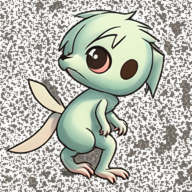
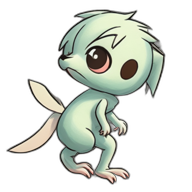
feat(blocklings): in-game vendors (crypto->treasury, 90% backs BLOCK) + clean sprite mattes
- Vendors: market-stall NPCs, one per nearby zone (deterministic stock of 8
  non-NFT items priced in BLOCK/ETH/SOL). Walk up -> SHOP button -> buy with
  crypto. EconomyService.buyFromVendor debits balance, adds the (unminted) item,
  routes the sale to the treasury wallet and books 90% to back BLOCK via the
  Blockle Liquidity pool (vendorBackingPct). Real on-chain settlement deep-links
  to the wallet (vendorPayUrl); non-custodial.
- Art: rembg (U2Net) clean mattes replace the flood-fill halo on all 28
  character sprites — crisp transparent edges (tools/rembg_chars.py).

Claude-Session: https://claude.ai/code/session_01Hi9Fj21YnCdsu73fPDkw6o

diff --git a/blockle-quest/lib/ui/panels.dart b/blockle-quest/lib/ui/panels.dart
@@ -4,6 +4,7 @@ import 'package:url_launcher/url_launcher.dart';
 import '../account/account_service.dart';
 import '../economy/economy.dart';
 import '../game/blocklings_game.dart';
+import '../game/entities/vendor.dart';
 import '../models/blockling.dart';
 import '../models/item.dart';
 import '../quests/quests.dart';
@@ -56,7 +57,7 @@ class _Panel extends StatelessWidget {
     void close() {
       final g = game;
       if (g != null) {
-        for (final name in const ['inventory', 'wallet', 'market', 'skills', 'quests']) {
+        for (final name in const ['inventory', 'wallet', 'market', 'skills', 'quests', 'shop']) {
           g.overlays.remove(name);
         }
         g.resumeEngine();
@@ -542,6 +543,83 @@ Future<void> _signInDialog(BuildContext context) async {
       },
     ),
   );
+}
+
+// ---- Vendor shop ----------------------------------------------------------
+class ShopPanel extends StatefulWidget {
+  final BlocklingsGame game;
+  const ShopPanel({super.key, required this.game});
+  @override
+  State<ShopPanel> createState() => _ShopPanelState();
+}
+
+class _ShopPanelState extends State<ShopPanel> {
+  @override
+  Widget build(BuildContext context) {
+    final v = widget.game.nearbyVendor;
+    return _Panel(
+      title: v?.name ?? 'Vendor',
+      game: widget.game,
+      child: v == null
+          ? const Center(child: Text('No vendor nearby.', style: TextStyle(color: Bq.dim)))
+          : AnimatedBuilder(
+              animation: _econ,
+              builder: (_, __) => ListView(
+                padding: const EdgeInsets.all(12),
+                children: [
+                  const Text('Buy with crypto. Items aren’t NFTs — mint them later if you like.',
+                      style: TextStyle(color: Bq.dim, fontSize: 11)),
+                  const SizedBox(height: 8),
+                  for (final e in v.stock) _row(e),
+                  const SizedBox(height: 10),
+                  Container(
+                    padding: const EdgeInsets.all(10),
+                    decoration: BoxDecoration(color: Bq.panel2, borderRadius: BorderRadius.circular(10)),
+                    child: const Text('90% of every vendor sale backs BLOCK through the Blockle Liquidity pool.',
+                        style: TextStyle(color: Bq.accent2, fontSize: 11, fontWeight: FontWeight.w600)),
+                  ),
+                ],
+              ),
+            ),
+    );
+  }
+
+  Widget _row(ShopEntry e) => Container(
+        margin: const EdgeInsets.only(bottom: 8),
+        padding: const EdgeInsets.all(8),
+        decoration: BoxDecoration(color: Bq.panel2, borderRadius: BorderRadius.circular(10)),
+        child: Row(children: [
+          ItemSprite(e.item, size: 44),
+          const SizedBox(width: 10),
+          Expanded(
+            child: Column(crossAxisAlignment: CrossAxisAlignment.start, children: [
+              Text(e.item.name, overflow: TextOverflow.ellipsis, style: const TextStyle(color: Bq.text, fontWeight: FontWeight.w700)),
+              Text('${e.item.rarityName} · ATK ${e.item.atk} DEF ${e.item.def} HP ${e.item.hp}',
+                  style: TextStyle(color: e.item.rarityColor, fontSize: 11)),
+            ]),
+          ),
+          Column(crossAxisAlignment: CrossAxisAlignment.end, children: [
+            Row(mainAxisSize: MainAxisSize.min, children: [
+              Container(width: 8, height: 8, decoration: BoxDecoration(color: e.chain.color, shape: BoxShape.circle)),
+              const SizedBox(width: 4),
+              Text('${e.price} ${e.chain.symbol}', style: const TextStyle(color: Bq.text, fontSize: 12, fontWeight: FontWeight.w700)),
+            ]),
+            const SizedBox(height: 4),
+            SizedBox(
+              height: 28,
+              child: FilledButton(
+                style: FilledButton.styleFrom(backgroundColor: Bq.accent, padding: const EdgeInsets.symmetric(horizontal: 14), minimumSize: const Size(0, 28)),
+                onPressed: () {
+                  final err = _econ.buyFromVendor(e.item, e.chain, e.price);
+                  ScaffoldMessenger.of(context).showSnackBar(SnackBar(content: Text(err ?? 'Bought ${e.item.name}')));
+                  setState(() {});
+                },
+                child: const Text('Buy', style: TextStyle(fontSize: 11)),
+              ),
+            ),
+          ]),
+        ]),
+      );
 }
 
 // ---- Skills (RuneScape-style) ---------------------------------------------

diff --git a/blockle-quest/lib/game/entities/vendor.dart b/blockle-quest/lib/game/entities/vendor.dart
@@ -1,0 +1,72 @@
+import 'dart:ui';
+
+import 'package:flame/components.dart';
+import 'package:flutter/painting.dart';
+
+import '../../economy/economy.dart';
+import '../../models/item.dart';
+import '../../theme.dart';
+
+/// A single item for sale at a vendor, priced in crypto.
+class ShopEntry {
+  final Item item;
+  final Chain chain;
+  final double price;
+  const ShopEntry(this.item, this.chain, this.price);
+}
+
+/// A merchant NPC (market stall). Sells normal (non-NFT) items for crypto;
+/// purchases route to the treasury and 90% backs BLOCK via Liquidity (see
+/// EconomyService.buyFromVendor). Stock is generated deterministically from the
+/// vendor seed, so every vendor is distinct and stable.
+class Vendor extends PositionComponent {
+  final String name;
+  final int seed;
+  late final List<ShopEntry> stock;
+
+  Vendor({required this.name, required this.seed, required Vector2 position}) {
+    this.position = position;
+    size = Vector2.all(30);
+    anchor = Anchor.center;
+    priority = 4;
+    const chains = [Chain.blockle, Chain.blockle, Chain.blockle, Chain.ethereum, Chain.solana];
+    stock = List.generate(8, (i) {
+      final item = Item.at(seed * 131 + i * 17 + 3);
+      final chain = chains[(seed + i) % chains.length];
+      final double price = chain == Chain.blockle
+          ? double.parse((item.valueBlock * 2 + 1).toStringAsFixed(1))
+          : double.parse((item.valueBlock / 600 + 0.001).toStringAsFixed(4));
+      return ShopEntry(item, chain, price);
+    });
+  }
+
+  final Paint _p = Paint();
+
+  @override
+  void render(Canvas canvas) {
+    final w = size.x;
+    // Counter.
+    _p.color = const Color(0xFF6B4A2F);
+    canvas.drawRRect(RRect.fromRectAndRadius(Rect.fromLTWH(0, w * 0.5, w, w * 0.5), const Radius.circular(3)), _p);
+    // Striped awning.
+    for (var i = 0; i < 4; i++) {
+      _p.color = i.isEven ? Bq.accent : const Color(0xFFEDEDF4);
+      canvas.drawRect(Rect.fromLTWH(i * w / 4, 0, w / 4, w * 0.3), _p);
+    }
+    // Awning trim.
+    _p.color = const Color(0xFF3A2A66);
+    canvas.drawRect(Rect.fromLTWH(0, w * 0.3, w, 3), _p);
+    // A little "goods" dot on the counter.
+    _p.color = Bq.xp;
+    canvas.drawCircle(Offset(w * 0.5, w * 0.62), 3, _p);
+  }
+
+  /// Build a few vendors near a world point (deterministic by cell).
+  static String nameFor(int seed) {
+    const a = ['Gilda', 'Benly', 'Mara', 'Orin', 'Pell', 'Suki', 'Tovik', 'Wenna'];
+    const b = ["'s Wares", "'s Emporium", "'s Trading Post", "'s Bazaar", "'s Outfitters", "'s Goods"];
+    return '${a[seed % a.length]}${b[(seed ~/ 3) % b.length]}';
+  }
+
+  double distanceToPlayer(Vector2 playerPos) => position.distanceTo(playerPos);
+}

diff --git a/blockle-quest/lib/game/blocklings_game.dart b/blockle-quest/lib/game/blocklings_game.dart
@@ -19,6 +19,7 @@ import 'entities/companion.dart';
 import 'entities/enemy.dart';
 import 'entities/player.dart';
 import 'entities/remote_player.dart';
+import 'entities/vendor.dart';
 import 'tile_map.dart';
 
 /// The Blocklings game: an open, chunked world with real-time combat, an
@@ -51,6 +52,10 @@ class BlocklingsGame extends FlameGame {
   final quests = QuestLog.instance;
   final skills = SkillsState.instance;
   int? _zoneId; // current zone (for banner + explore quests)
+
+  // Vendors: one market stall per nearby zone; the nearest in range is shoppable.
+  final Map<int, Vendor> vendors = {};
+  Vendor? nearbyVendor;
 
   /// Bumped on notable events (loot/level) so the HUD/toasts can react.
   final ValueNotifier<String> toast = ValueNotifier('');
@@ -203,12 +208,48 @@ class BlocklingsGame extends FlameGame {
       quests.onExplore(zone.id);
     }
 
-    // Multiplayer: push our position ~10Hz and reconcile remote players.
+    // Multiplayer + vendors: ~10Hz.
     _posAcc += dt;
     if (_posAcc >= 0.1) {
       _posAcc = 0;
       net.sendPos(player.position.x, player.position.y, player.level);
       _syncRemotes();
+      _updateVendors();
+    }
+  }
+
+  void _updateVendors() {
+    final pz = Zones.atWorld(player.position.x, player.position.y, TileMap.ts);
+    if (pz == null) return;
+    // Ensure a vendor exists in the 3×3 block of zones around the player.
+    for (var dy = -1; dy <= 1; dy++) {
+      for (var dx = -1; dx <= 1; dx++) {
+        final zx = pz.zx + dx, zy = pz.zy + dy;
+        if (zx < 0 || zy < 0 || zx >= Zones.grid || zy >= Zones.grid) continue;
+        final id = zy * Zones.grid + zx;
+        if (vendors.containsKey(id)) continue;
+        final cx = zx * Zones.zoneTiles + Zones.zoneTiles ~/ 2;
+        final cy = zy * Zones.zoneTiles + Zones.zoneTiles ~/ 2;
+        final pos = map.nearestOpen(Vector2(cx * TileMap.ts, cy * TileMap.ts));
+        final v = Vendor(name: Vendor.nameFor(id), seed: id, position: pos);
+        vendors[id] = v;
+        world.add(v);
+      }
+    }
+    // Despawn distant vendors.
+    vendors.keys.where((id) {
+      final zx = id % Zones.grid, zy = id ~/ Zones.grid;
+      return (zx - pz.zx).abs() > 2 || (zy - pz.zy).abs() > 2;
+    }).toList().forEach((id) => vendors.remove(id)?.removeFromParent());
+    // Nearest vendor within interaction range.
+    nearbyVendor = null;
+    var best = 52.0;
+    for (final v in vendors.values) {
+      final d = v.distanceToPlayer(player.position);
+      if (d < best) {
+        best = d;
+        nearbyVendor = v;
+      }
     }
   }
 

diff --git a/blockle-quest/lib/economy/economy.dart b/blockle-quest/lib/economy/economy.dart
@@ -300,6 +300,47 @@ class EconomyService extends ChangeNotifier {
     return null;
   }
 
+  // ---- Vendors (buy non-NFT items for crypto; revenue backs BLOCK) ------ //
+  /// Developer treasury that receives vendor crypto sales.
+  String treasuryAddress = 'block1treasuryxxxxxxxxxxxxxxxxxxxxxxxxxxxxx';
+
+  /// Share of vendor sales routed to back BLOCK via the Blockle Liquidity pool.
+  static const double vendorBackingPct = 0.90;
+
+  /// Gross vendor sales received at the treasury, per currency.
+  final Map<Chain, double> treasury = {for (final c in Chain.values) c: 0.0};
+
+  /// Amount of each currency routed into Liquidity to back BLOCK (90% of sales).
+  final Map<Chain, double> blockBacking = {for (final c in Chain.values) c: 0.0};
+
+  /// Buy an item from an in-game vendor for crypto. The item is a normal
+  /// inventory item (NOT an NFT — you can mint it later). The payment goes to
+  /// the treasury wallet and 90% is used to back BLOCK through Liquidity.
+  ///
+  /// The in-game balance is debited here; real on-chain settlement to
+  /// [treasuryAddress] + the liquidity backing happen via the wallet / server
+  /// (see [vendorPayUrl]) and stay non-custodial.
+  String? buyFromVendor(Item item, Chain chain, double price) {
+    if (!kCurrencies.contains(chain)) return 'Unsupported currency.';
+    if (!debit(chain, price)) {
+      return 'Not enough ${chain.symbol}. Buy more with MoonPay or swap via Liquidity.';
+    }
+    items.add(item); // unminted
+    treasury[chain] = (treasury[chain] ?? 0) + price;
+    blockBacking[chain] = (blockBacking[chain] ?? 0) + price * vendorBackingPct;
+    notifyListeners();
+    return null;
+  }
+
+  /// Real on-chain vendor payment to the treasury (gated; opens the wallet).
+  Uri vendorPayUrl(Chain chain, double price) => _wallet({
+        'action': 'pay',
+        'chain': chain.name,
+        'amount': price.toString(),
+        'to': treasuryAddress,
+        'memo': 'blocklings-vendor',
+      });
+
   Uri _wallet(Map<String, String> q) =>
       Uri.parse('$origin/wallet').replace(queryParameters: {'app': 'blocklings', ...q});
 }

diff --git a/blockle-quest/lib/main.dart b/blockle-quest/lib/main.dart
@@ -72,6 +72,7 @@ class _GameScreenState extends State<GameScreen> {
           'market': (_, BlocklingsGame g) => MarketPanel(game: g),
           'skills': (_, BlocklingsGame g) => SkillsPanel(game: g),
           'quests': (_, BlocklingsGame g) => QuestsPanel(game: g),
+          'shop': (_, BlocklingsGame g) => ShopPanel(game: g),
         },
         initialActiveOverlays: const ['hud'],
       ),
@@ -190,6 +191,10 @@ class _HudState extends State<Hud> {
             bottom: 120,
             child: Column(
               children: [
+                if (g.nearbyVendor != null) ...[
+                  _round('SHOP', Bq.accent2, () => _open('shop')),
+                  const SizedBox(height: 8),
+                ],
                 _round('AUTO', g.autoCombat ? Bq.accent : Bq.panel2, () => setState(g.toggleAuto)),
                 const SizedBox(height: 8),
                 _round('BAG', Bq.panel2, () => _open('inventory')),

diff --git a/blockle-quest/tools/rembg_chars.py b/blockle-quest/tools/rembg_chars.py
@@ -1,0 +1,23 @@
+#!/usr/bin/env python3
+"""Clean sprite cutouts with rembg (U2Net matting) — replaces the flood-fill
+halo with a proper alpha matte. Overwrites assets/images/chars/*.png.
+"""
+import os, sys
+os.environ.setdefault("KMP_DUPLICATE_LIB_OK", "TRUE")
+from pathlib import Path
+from PIL import Image
+from rembg import remove, new_session
+
+d = Path(sys.argv[1]) if len(sys.argv) > 1 else Path(__file__).resolve().parents[1] / "assets" / "images" / "chars"
+sess = new_session("u2net")
+pngs = sorted(d.glob("*.png"))
+for p in pngs:
+    img = Image.open(p).convert("RGBA")
+    # Composite onto neutral grey so the matte model sees the original subject
+    # (the flood-fill left transparent pixels with stale RGB).
+    bg = Image.new("RGBA", img.size, (128, 128, 128, 255))
+    bg.alpha_composite(img)
+    out = remove(bg.convert("RGB"), session=sess)
+    out.save(p)
+    print(f"matted {p.name}", flush=True)
+print(f"done: {len(pngs)}", flush=True)
